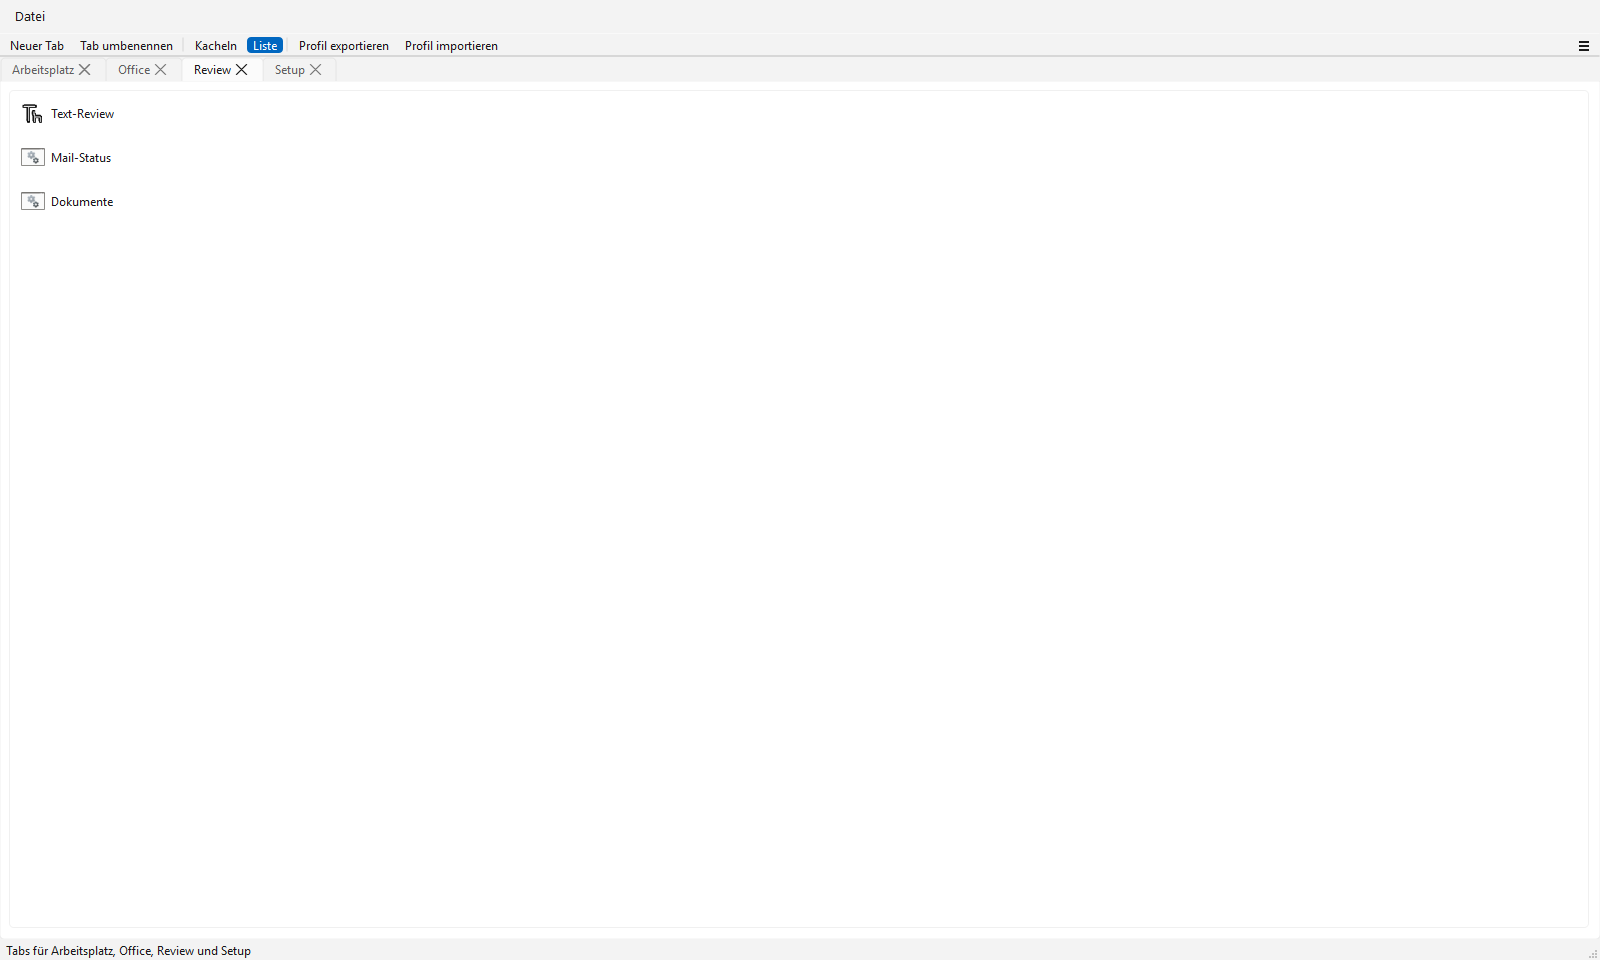
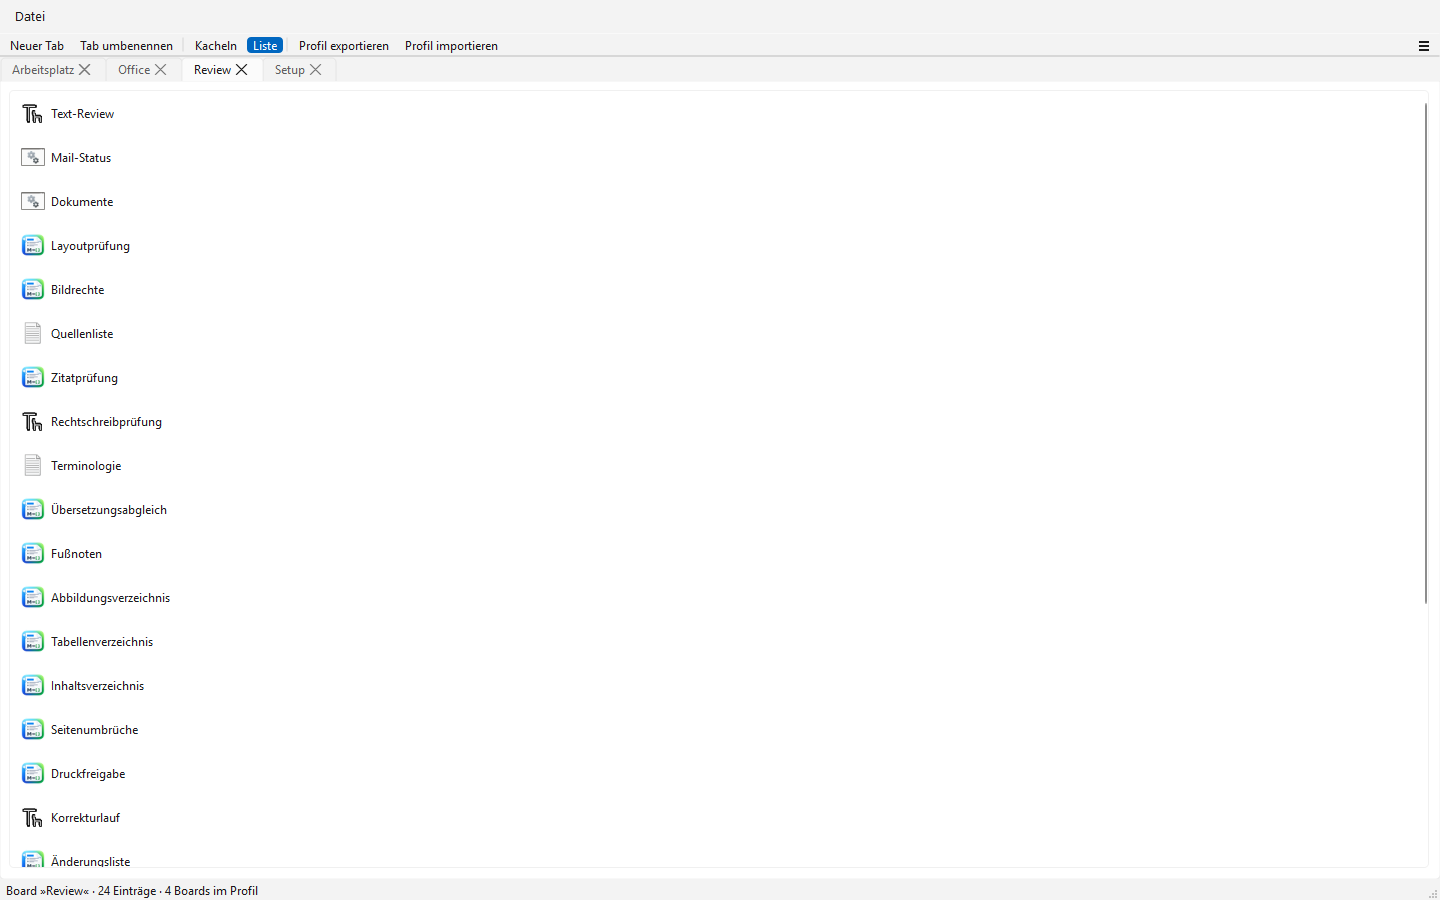
fix(store): Screenshots gefuellt komponieren statt 80 Prozent Leerflaeche
Die neuen Aufnahmen waren lesbar, zeigten aber sechs bzw. vierzehn Kacheln in
einem 1600x960-Fenster -- rund 80 Prozent weisse Flaeche. Ein so leeres Fenster
zeigt das Produkt nicht so, wie es benutzt wird, und laedt dieselbe Bewertung
nach Policy 10.1.1.3 erneut ein, an der die erste Einreichung gescheitert ist.

- Demo-Sammlung tabellengesteuert in BOARD_CATALOGUE: 80 Eintraege
  (Arbeitsplatz), 78 (Office), 24 (Review), 10 (Setup). Alle Namen frei
  erfunden und neutral, keine echten Nutzerpfade und keine fremden
  Produktmarken. Die Dateiendung bestimmt Eintragstyp und Windows-Symbol,
  darum sind die Endungen gemischt.
- Fenster von 1600x960 auf 1440x900 verkleinert: derselbe Inhalt traegt die
  Flaeche besser, und der Abstand zur Store-Mindestgroesse 1366x768 bleibt.
- Kachelansichten fuellen jetzt sieben Reihen, Listenansichten laufen ueber die
  volle Fensterhoehe mit sichtbarem Rollbalken.
- Statuszeilen werden aus den echten Zahlen gebildet (Boardname, Eintraege,
  Boardanzahl) statt fest verdrahtet zu sein.
- Ungenutzte Icon-Vereinheitlichung entfernt; die Eintraege tragen damit die
  echten Windows-Dateisymbole.

Claude-Session: https://claude.ai/code/session_01EfxNgnB6wHbkakHAGFpaEp

diff --git a/generate_store_screenshots.py b/generate_store_screenshots.py
@@ -10,19 +10,22 @@ from pathlib import Path
 
 os.environ.setdefault("QT_SCALE_FACTOR", "1")
 
+# Import bewusst erst hier: QT_SCALE_FACTOR muss vor dem Qt-Import stehen.
+from PySide6 import QtCore, QtWidgets
+
+from SoftwareCenter import MainWindow
+
 MIN_STORE_WIDTH = 1366
 MIN_STORE_HEIGHT = 768
+
+# Bewusst kompakt gehalten: ein sehr breites Fenster laesst denselben Inhalt
+# verloren wirken. 1440x900 liegt mit Reserve ueber der Store-Mindestgroesse.
+WINDOW_SIZE = (1440, 900)
 
 # Qt-Plattformen ohne echtes Fenstersystem. Sie rendern auf diesem System keine
 # Glyphen (Tofu-Kaestchen statt Text) und haben 2026-08-11 zur Store-Ablehnung
 # nach Policy 10.1.1.3 ("Inaccurate Representation") gefuehrt.
 HEADLESS_PLATFORMS = frozenset({"offscreen", "minimal", "vnc"})
-
-from PySide6 import QtCore, QtGui, QtWidgets
-
-import SoftwareCenter as module
-from SoftwareCenter import MainWindow
-
 
 PROJECT_ROOT = Path(__file__).resolve().parent
 OUTPUT_DIR = PROJECT_ROOT / "README" / "screenshots" / "store"
@@ -68,43 +71,122 @@ def _configure_runtime_dirs(temp_root: Path) -> Path:
     return home_dir
 
 
-def _write_demo_targets(workspace: Path) -> dict[str, Path]:
-    workspace.mkdir(parents=True, exist_ok=True)
+# Demo-Sammlung fuer die Store-Screenshots. Alle Namen sind frei erfunden und
+# neutral: keine echten Nutzerpfade, keine Klarnamen, keine fremden
+# Produktmarken. Die Dateiendung bestimmt Eintragstyp und damit das
+# Windows-Symbol, deshalb sind die Endungen bewusst gemischt.
+#
+# Die Boards sind absichtlich gut gefuellt: ein zu 80 % leeres Fenster zeigt das
+# Produkt nicht so, wie es benutzt wird, und laedt dieselbe Bewertung nach
+# Policy 10.1.1.3 erneut ein wie die abgelehnten Tofu-Screenshots.
+BOARD_CATALOGUE: dict[str, tuple[str, tuple[str, ...]]] = {
+    "Arbeitsplatz": (
+        "tiles",
+        (
+            "Projekt-Briefing.txt", "Redaktion.py", "Mail-Export.cmd", "PDF-Werkstatt.bat",
+            "Recherche.url", "Sync-Ordner.lnk", "Backup-Lauf.cmd", "Rechnungen.bat",
+            "Wochenplan.md", "Bildarchiv.lnk", "Haushaltsbuch.txt", "Handbuch.url",
+            "Notizen.md", "Release-Check.ps1", "Texteditor.lnk", "Tabellen.lnk",
+            "Präsentation.lnk", "Terminplaner.lnk", "Adressbuch.txt", "Aufgabenliste.md",
+            "Zeiterfassung.bat", "Belegscanner.bat", "Archivsuche.py", "Dateimanager.lnk",
+            "Bildbearbeitung.lnk", "Videoschnitt.lnk", "Tonaufnahme.lnk", "Bildschirmfoto.bat",
+            "Farbwähler.py", "Schriftmuster.txt", "Diagramme.py", "Mindmap.lnk",
+            "Kalkulation.txt", "Angebote.md", "Verträge.txt", "Protokolle.md",
+            "Checklisten.md", "Vorlagen.lnk", "Serienbrief.bat", "Etiketten.bat",
+            "Druckvorlagen.lnk", "Übersetzer.url", "Wörterbuch.url", "Rechtschreibung.py",
+            "Lesezeichen.url", "Downloads.lnk", "Netzlaufwerk.lnk", "Druckerliste.ps1",
+            "Systeminfo.ps1", "Datenträger.ps1", "Aufräumen.cmd", "Updates.ps1",
+            "Ereignisse.ps1", "Dienste.ps1", "Aufgabenplanung.ps1", "Passworttresor.lnk",
+            "Verschlüsselung.py", "Signaturen.txt", "Zertifikate.txt", "Firewall-Regeln.ps1",
+            "Netzwerktest.cmd", "Ping-Werkzeug.cmd", "Portprüfung.py", "Fernwartung.lnk",
+            "Terminalfenster.lnk", "Skriptsammlung.py", "Buildlauf.cmd", "Testlauf.cmd",
+            "Auslieferung.ps1", "Changelog.md", "Fehlerliste.md", "Ideenspeicher.md",
+            "Lernpfad.md", "Literatur.url", "Kursunterlagen.lnk", "Reisekosten.txt",
+            "Urlaubsplan.md", "Inventar.txt", "Wartungsplan.md", "Kontakte.txt",
+        ),
+    ),
+    "Office": (
+        "tiles",
+        (
+            "Projekt-Notizen.md", "Freigabe-Briefing.txt", "Release-Check.ps1", "Post-Ausgang.cmd",
+            "Scan-Ablage.bat", "Vorlagen.url", "Angebotsmappe.txt", "Auftragsbuch.txt",
+            "Rechnungsausgang.bat", "Mahnwesen.bat", "Kassenbuch.txt", "Kostenstellen.txt",
+            "Budgetplan.md", "Jahresabschluss.md", "Steuerordner.lnk", "Belegablage.lnk",
+            "Lieferscheine.txt", "Bestellungen.txt", "Lagerliste.txt", "Preisliste.txt",
+            "Kundenliste.txt", "Lieferanten.txt", "Serienmail.bat", "Newsletter.md",
+            "Pressemappe.md", "Broschüre.lnk", "Visitenkarten.lnk", "Briefpapier.lnk",
+            "Formulare.lnk", "Anträge.md", "Genehmigungen.md", "Fristenkalender.md",
+            "Sitzungsplan.md", "Tagesordnung.md", "Sitzungsprotokoll.md", "Beschlüsse.md",
+            "Aktenplan.txt", "Ablagestruktur.txt", "Archivierung.ps1", "Aktenvernichtung.md",
+            "Datenschutz.md", "Verfahrensverzeichnis.md", "Löschkonzept.md", "Auskunftsersuchen.md",
+            "Vertragsmappe.txt", "Vollmachten.txt", "Versicherungen.txt", "Mietunterlagen.txt",
+            "Inventarliste.txt", "Wartungsverträge.txt", "Reisebuchung.url", "Fahrtenbuch.txt",
+            "Spesenabrechnung.txt", "Stundenzettel.txt", "Urlaubsantrag.md", "Krankmeldung.md",
+            "Personalakte.lnk", "Einarbeitung.md", "Schulungsplan.md", "Zeugnisse.lnk",
+            "Bewerbungen.lnk", "Stellenausschreibung.md", "Organigramm.lnk", "Telefonliste.txt",
+            "Kalenderwoche.md", "Raumbuchung.md", "Besucherliste.txt", "Poststelle.bat",
+            "Frankierung.bat", "Materialbestellung.txt", "Büromaterial.txt", "Reinigungsplan.md",
+            "Schlüsselliste.txt", "Notfallplan.md", "Brandschutz.md", "Ersthelfer.txt",
+            "Unterweisungen.md", "Betriebsrat.md",
+        ),
+    ),
+    "Review": (
+        "list",
+        (
+            "Text-Review.py", "Mail-Status.cmd", "Dokumente.bat", "Layoutprüfung.md",
+            "Bildrechte.md", "Quellenliste.txt", "Zitatprüfung.md", "Rechtschreibprüfung.py",
+            "Terminologie.txt", "Übersetzungsabgleich.md", "Fußnoten.md", "Abbildungsverzeichnis.md",
+            "Tabellenverzeichnis.md", "Inhaltsverzeichnis.md", "Seitenumbrüche.md", "Druckfreigabe.md",
+            "Korrekturlauf.py", "Änderungsliste.md", "Freigabevermerk.txt", "Versionsvergleich.py",
+            "Abnahmeprotokoll.md", "Restpunkte.md", "Nacharbeit.md", "Schlussabnahme.md",
+        ),
+    ),
+    "Setup": (
+        "tiles",
+        (
+            "Zielpfade.lnk", "Versionen.ps1", "Erstkonfiguration.md", "Pfadvorgaben.txt",
+            "Standardordner.lnk", "Sicherungsziel.lnk", "Startverhalten.md", "Tastenkürzel.md",
+            "Anzeigeoptionen.md", "Wiederherstellung.ps1",
+        ),
+    ),
+}
 
-    targets = {
-        "briefing": workspace / "Projekt-Briefing.txt",
-        "editor": workspace / "Redaktion.py",
-        "mail": workspace / "Mail-Export.cmd",
-        "ocr": workspace / "PDF-Werkstatt.bat",
-        "research": workspace / "Recherche.url",
-        "sync": workspace / "Sync-Ordner.lnk",
-        "release": workspace / "Release-Check.ps1",
-        "notes": workspace / "Notizen.md",
-        "backup": workspace / "Backup-Lauf.cmd",
-        "invoice": workspace / "Rechnungen.bat",
-        "calendar": workspace / "Wochenplan.md",
-        "photos": workspace / "Bildarchiv.lnk",
-        "budget": workspace / "Haushaltsbuch.txt",
-        "manual": workspace / "Handbuch.url",
-    }
-    demo_text = {
-        "briefing": "Projekt-Briefing für lokale Software-Sammlungen.\n",
-        "editor": "print('Lokale Redaktion mit echten Umlauten: äöü')\n",
-        "mail": "@echo off\r\necho Mail-Export vorbereiten\r\n",
-        "ocr": "@echo off\r\necho PDF-Werkstatt starten\r\n",
-        "research": "[InternetShortcut]\nURL=https://example.invalid/recherche\n",
-        "sync": "Demo-Verknüpfung für lokale Synchronisation\n",
-        "release": "Write-Output 'Release-Check vorbereiten'\n",
-        "notes": "# Notizen\n\nDesktop-Profile bleiben lokal.\n",
-        "backup": "@echo off\r\necho Backup-Lauf starten\r\n",
-        "invoice": "@echo off\r\necho Rechnungen sortieren\r\n",
-        "calendar": "# Wochenplan\n\nTermine und Aufgaben der Woche.\n",
-        "photos": "Demo-Verknüpfung für das lokale Bildarchiv\n",
-        "budget": "Haushaltsbuch – lokale Übersicht der Ausgaben.\n",
-        "manual": "[InternetShortcut]\nURL=https://example.invalid/handbuch\n",
-    }
-    for key, path in targets.items():
-        path.write_text(demo_text[key], encoding="utf-8")
+_KIND_BY_SUFFIX = {
+    ".txt": "file",
+    ".md": "file",
+    ".py": "script",
+    ".bat": "script",
+    ".cmd": "script",
+    ".ps1": "script",
+    ".url": "url",
+    ".lnk": "windows_shortcut",
+}
+
+_CONTENT_BY_SUFFIX = {
+    ".txt": "{label} – lokale Demo-Datei mit echten Umlauten: äöüß.\n",
+    ".md": "# {label}\n\nDemo-Inhalt. Desktop-Profile bleiben lokal.\n",
+    ".py": "print('{label}: lokale Demo mit Umlauten äöü')\n",
+    ".bat": "@echo off\r\necho {label} starten\r\n",
+    ".cmd": "@echo off\r\necho {label} starten\r\n",
+    ".ps1": "Write-Output '{label} vorbereiten'\n",
+    ".url": "[InternetShortcut]\nURL=https://example.invalid/demo\n",
+    ".lnk": "Demo-Verknüpfung: {label}\n",
+}
+
+
+def _write_demo_targets(workspace: Path) -> dict[str, list[Path]]:
+    """Legt je Board einen Ordner mit den Demo-Zieldateien an."""
+    targets: dict[str, list[Path]] = {}
+    for board, (_view, filenames) in BOARD_CATALOGUE.items():
+        board_dir = workspace / board
+        board_dir.mkdir(parents=True, exist_ok=True)
+        paths = []
+        for filename in filenames:
+            path = board_dir / filename
+            template = _CONTENT_BY_SUFFIX[path.suffix]
+            path.write_text(template.format(label=path.stem), encoding="utf-8")
+            paths.append(path)
+        targets[board] = paths
     return targets
 
 
@@ -117,71 +199,27 @@ def _entry(path: Path, label: str, kind: str, notes: str | None = None) -> dict[
     }
 
 
-def _apply_consistent_icons(list_widget: module.SoftwareListWidget, icon: QtGui.QIcon) -> None:
-    for index in range(list_widget.count()):
-        item = list_widget.item(index)
-        item.setIcon(icon)
+def _board_entries(paths: list[Path]) -> list[dict[str, str | None]]:
+    return [_entry(path, path.stem, _KIND_BY_SUFFIX[path.suffix]) for path in paths]
 
 
-def _configure_demo_window(window: MainWindow, targets: dict[str, Path]) -> None:
+def _configure_demo_window(window: MainWindow, targets: dict[str, list[Path]]) -> None:
     default_page = window.current_page()
     if default_page is None:
         raise RuntimeError("SoftwareCenter konnte keine Startseite erzeugen")
 
-    workspace_entries = [
-        _entry(targets["briefing"], "Projekt-Briefing", "file", "Startpunkt für lokale Arbeitsplätze"),
-        _entry(targets["editor"], "Redaktion", "script", "Bearbeitung und Review"),
-        _entry(targets["mail"], "Mail-Export", "script", "Regelbasierte Übergabe"),
-        _entry(targets["ocr"], "PDF-Werkstatt", "script", "OCR und PDF-Werkzeuge"),
-        _entry(targets["research"], "Recherche", "url", "Schneller Sprung zu Referenzen"),
-        _entry(targets["sync"], "Sync-Ordner", "windows_shortcut", "Lokale Zielpfade im Blick"),
-        _entry(targets["backup"], "Backup-Lauf", "script", "Sicherung der Arbeitsdaten"),
-        _entry(targets["invoice"], "Rechnungen", "script", "Belege sortieren"),
-        _entry(targets["calendar"], "Wochenplan", "file", "Termine und Aufgaben"),
-        _entry(targets["photos"], "Bildarchiv", "windows_shortcut", "Fotos und Grafiken"),
-        _entry(targets["budget"], "Haushaltsbuch", "file", "Ausgaben im Blick"),
-        _entry(targets["manual"], "Handbuch", "url", "Nachschlagewerk öffnen"),
-        _entry(targets["notes"], "Notizen", "file", "Schnelle Gedächtnisstütze"),
-        _entry(targets["release"], "Release-Check", "script", "Vor dem Versand prüfen"),
-    ]
-    office_entries = [
-        _entry(targets["notes"], "Projekt-Notizen", "file", "Besprechungen und offene Punkte"),
-        _entry(targets["briefing"], "Freigabe-Briefing", "file", "Kompakte Zusammenfassung"),
-        _entry(targets["release"], "Release-Check", "script", "Vor dem Versand prüfen"),
-        _entry(targets["mail"], "Post-Ausgang", "script", "Versand vorbereiten"),
-        _entry(targets["ocr"], "Scan-Ablage", "script", "Belege einsortieren"),
-        _entry(targets["research"], "Vorlagen", "url", "Verweise auf Musterdokumente"),
-    ]
-    review_entries = [
-        _entry(targets["editor"], "Text-Review", "script", "Korrektur und Endabnahme"),
-        _entry(targets["mail"], "Mail-Status", "script", "Letzten Export kontrollieren"),
-        _entry(targets["ocr"], "Dokumente", "script", "Neue PDFs prüfen"),
-    ]
+    boards = list(BOARD_CATALOGUE.items())
+    first_name, (first_view, _first_files) = boards[0]
+    default_page.set_view_mode(first_view)
+    default_page.add_entries(_board_entries(targets[first_name]))
 
-    default_page.add_entries(workspace_entries)
-    window.add_new_tab("Office", "tiles", entries=office_entries)
-    window.add_new_tab("Review", "list", entries=review_entries)
-    window.add_new_tab(
-        "Setup",
-        "tiles",
-        entries=[
-            _entry(targets["sync"], "Zielpfade", "windows_shortcut", "Nur Referenz, kein Upload"),
-            _entry(targets["release"], "Versionen", "script", "Checks für die Übergabe"),
-        ],
-    )
+    for board_name, (view_mode, _files) in boards[1:]:
+        window.add_new_tab(board_name, view_mode, entries=_board_entries(targets[board_name]))
 
     # Erst umbenennen, wenn alle Tabs stehen: Solange nur ein Tab existiert, ist die
     # Tab-Leiste noch ohne Schliessen-Knopf bemessen; ein spaeter eingeblendeter Knopf
     # laege sonst ueber dem laengeren Namen.
-    window.tabs.setTabText(0, "Arbeitsplatz")
-
-    app_icon = window.windowIcon()
-    if app_icon.isNull():
-        app_icon = QtGui.QIcon(str(PROJECT_ROOT / "icon.ico"))
-    for index in range(window.tabs.count()):
-        page = window.tabs.widget(index)
-        if isinstance(page, module.TabPage):
-            _apply_consistent_icons(page.list, app_icon)
+    window.tabs.setTabText(0, first_name)
 
 
 def real_gui_available() -> bool:
@@ -289,7 +327,7 @@ def generate_store_screenshots(output_dir: Path) -> list[Path]:
         # Schritt 1: Demo-Profil aufbauen und speichern.
         builder_settings = QtCore.QSettings(ini_path, QtCore.QSettings.IniFormat)
         builder = MainWindow(settings=builder_settings)
-        builder.resize(1600, 960)
+        builder.resize(*WINDOW_SIZE)
         _configure_demo_window(builder, targets)
         builder.save_settings()
         builder_settings.sync()
@@ -301,7 +339,7 @@ def generate_store_screenshots(output_dir: Path) -> list[Path]:
         # von Anfang an korrekt bemessen.
         settings = QtCore.QSettings(ini_path, QtCore.QSettings.IniFormat)
         window = MainWindow(settings=settings)
-        window.resize(1600, 960)
+        window.resize(*WINDOW_SIZE)
         _process_events(app)
 
         result_paths = [
@@ -311,29 +349,32 @@ def generate_store_screenshots(output_dir: Path) -> list[Path]:
             output_dir / SCREENSHOT_FILES["list"],
         ]
 
-        try:
-            window.tabs.setCurrentIndex(0)
-            window.set_current_view("tiles")
-            entry_count = window.current_page().list.count()
-            window.statusBar().showMessage(
-                f"Lokale Sammlung · {entry_count} Einträge · Offline", 0
+        def show(tab_index: int, view: str, message: str) -> str:
+            """Board wechseln, Ansicht setzen, Statuszeile aus echten Zahlen bilden."""
+            window.tabs.setCurrentIndex(tab_index)
+            window.set_current_view(view)
+            page = window.current_page()
+            text = message.format(
+                board=window.tabs.tabText(tab_index),
+                count=page.list.count(),
+                boards=window.tabs.count(),
             )
+            window.statusBar().showMessage(text, 0)
+            return text
+
+        try:
+            show(0, "tiles", "Lokale Sammlung »{board}« · {count} Einträge · Offline")
             _save_widget(window, result_paths[0])
 
-            window.tabs.setCurrentIndex(2)
-            window.statusBar().showMessage("Tabs für Arbeitsplatz, Office, Review und Setup", 0)
+            show(2, "list", "Board »{board}« · {count} Einträge · {boards} Boards im Profil")
             _save_widget(window, result_paths[1])
 
             # Bewusst ein anderes Board als bei "main", sonst waeren zwei der vier
             # Store-Screenshots dasselbe Bild.
-            window.tabs.setCurrentIndex(1)
-            window.set_current_view("tiles")
-            window.statusBar().showMessage("Kachelansicht für schnellen Programmzugriff", 0)
+            show(1, "tiles", "Kachelansicht · Board »{board}« · {count} Einträge")
             _save_widget(window, result_paths[2])
 
-            window.tabs.setCurrentIndex(0)
-            window.set_current_view("list")
-            window.statusBar().showMessage("Listenansicht für größere Sammlungen", 0)
+            show(0, "list", "Listenansicht für größere Sammlungen · {count} Einträge")
             _save_widget(window, result_paths[3])
         finally:
             window.close()

diff --git a/CHANGELOG.md b/CHANGELOG.md
@@ -16,7 +16,15 @@ All notable changes to this project will be documented in this file.
   aufgenommen — so, wie ein wiederkehrender Nutzer die App sieht — und zeigen
   jetzt vier verschiedene Ansichten statt zweimal dasselbe Board.
 - Jeder Screenshot wird beim Erzeugen gegen die Store-Mindestgröße 1366x768
-  geprüft (aktuell 1600x960).
+  geprüft.
+- Bildkomposition nachgebessert: Die vorherigen 1600x960-Aufnahmen zeigten sechs
+  bzw. vierzehn Kacheln in einem sonst leeren Fenster — rund 80 % weiße Fläche.
+  Ein so leeres Fenster zeigt das Produkt nicht so, wie es benutzt wird, und lädt
+  dieselbe Bewertung nach 10.1.1.3 erneut ein. Jetzt: kompakteres Fenster
+  1440x900 und eine tabellengesteuerte Demo-Sammlung mit 80 (Arbeitsplatz),
+  78 (Office), 24 (Review) und 10 (Setup) frei erfundenen, neutralen Einträgen.
+  Die Kachelansichten füllen damit sieben Reihen, die Listenansichten laufen über
+  die volle Fensterhöhe.
 - Versions-Mismatch aufgelöst: Runtime, `pyproject.toml`, `store_package.json`,
   Staging-Manifest, `STORE_CONTRACT.md` und `STORE_LISTING.md` führen einheitlich
   1.2.0 bzw. 1.2.0.0. Ein neuer Test in `tests/test_store_contract.py` hält die
